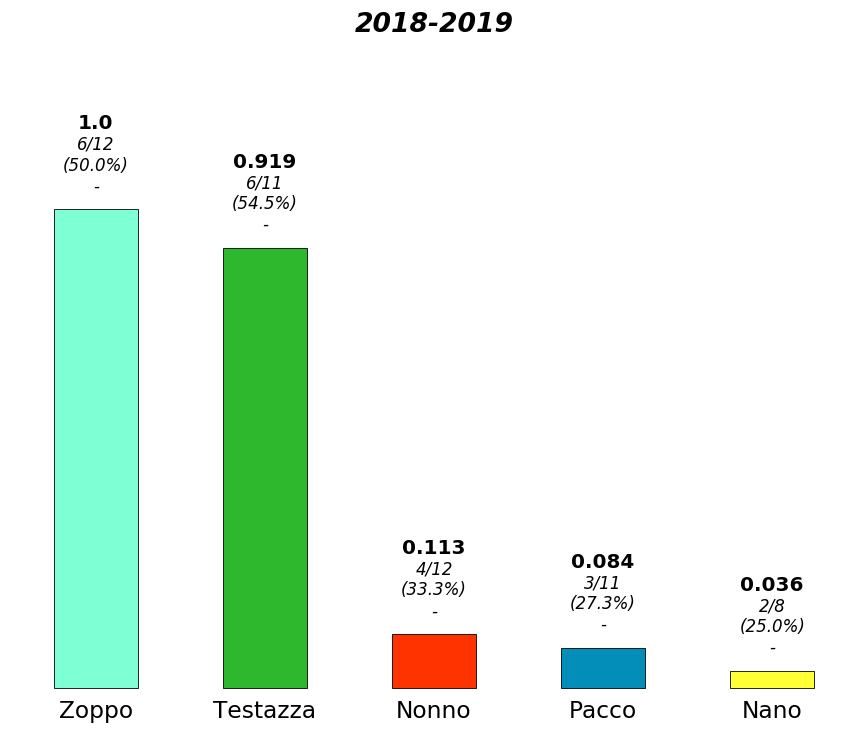
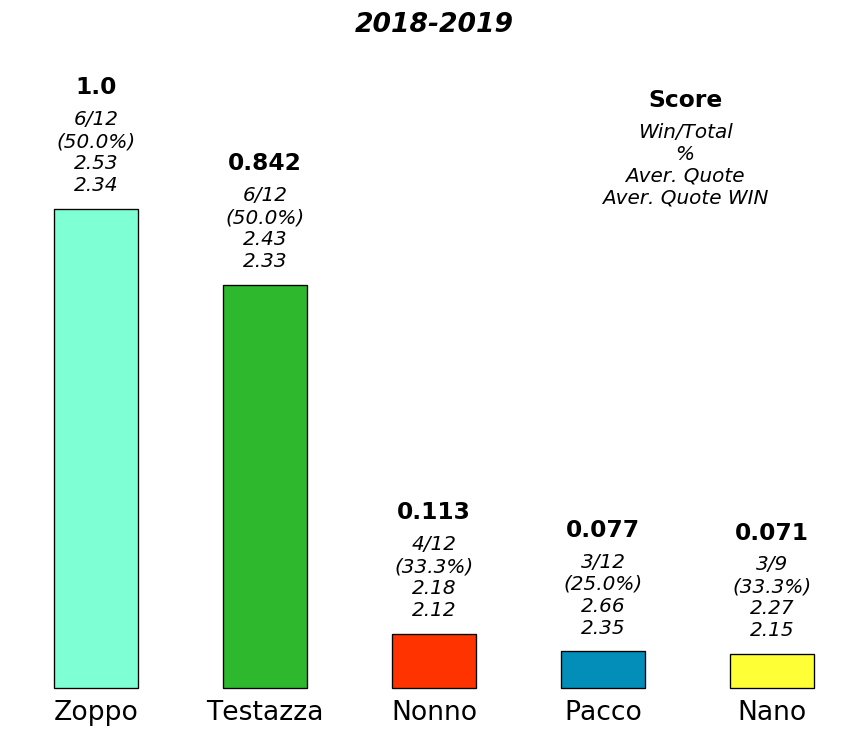
score restyling

diff --git a/Classes.py b/Classes.py
@@ -280,17 +280,20 @@ def score2(which):
 	                         (preds2['Label'] == 'WINNING')]) /
 	              len(preds2[preds2['User'] == name]) * 100, 1) for name
 	        in names]
-	mean_quote = [round(preds2[(preds2['User'] == name) &
-	                     (preds2['Label'] == 'WINNING')].
-		          sort_values(by='Quote')['Quote'].values[1:-1].mean(), 2)
-	              for name in names]
+	mean_quoteW = [round(preds2[(preds2['User'] == name) &
+	                            (preds2['Label'] == 'WINNING')].
+	                sort_values(by='Quote')['Quote'].values[1:-1].mean(), 2)
+	               for name in names]
+	mean_quoteP = [round(preds2[preds2['User'] == name]['Quote'].values.mean(),
+	                     2)
+	               for name in names]
 	colors = [colors_dict[name] for name in names]
 
 	fig, ax = plt.subplots()
 	fig.set_size_inches(9, 7)
 	bars = plt.bar(range(5), indices, 0.5, color=colors, edgecolor='black',
-	               linewidth=0.5, clip_on=False)
-	plt.xticks(range(5), names, fontsize=14)
+	               linewidth=.8, clip_on=False)
+	plt.xticks(range(5), names, fontsize=16)
 	plt.ylim(0, 1.35)
 	plt.box(on=None)
 	plt.tick_params(axis='x', which='both', bottom=False, labelbottom=True)
@@ -298,18 +301,27 @@ def score2(which):
 	plt.title(which, fontsize=16, fontweight='bold', style='italic')
 
 	for i, bar in enumerate(bars):
-		text = '{}\n({}%)\n{}'.format(ratio[i], perc[i], '-')#mean_quote[i])
+		text = '{}\n({}%)\n{}\n{}'.format(ratio[i], perc[i], mean_quoteP[i],
+		                              mean_quoteW[i])
 		plt.text(bar.get_x() + bar.get_width() / 2.0, indices[i] + 0.03,
-		         '{}'.format(text), ha='center', va='bottom', fontsize=10,
+		         '{}'.format(text), ha='center', va='bottom', fontsize=12,
 		         style='italic')
 	for i, bar in enumerate(bars):
 		text = '{}'.format(indices[i])
-		plt.text(bar.get_x() + bar.get_width() / 2.0, indices[i] + 0.16,
-		         '{}'.format(text), ha='center', va='bottom', fontsize=12,
+		plt.text(bar.get_x() + bar.get_width() / 2.0, indices[i] + 0.23,
+		         '{}'.format(text), ha='center', va='bottom', fontsize=14,
 		         fontweight='bold')
 	for bar in bars:
 		if not bar.get_height():
 			bar.set_linewidth(0)
+
+	plt.text(.8, .9, 'Score', horizontalalignment='center',
+	         transform=ax.transAxes, fontweight='bold', fontsize=14)
+
+	expl = 'Win/Total\n%\nAver. Quote\nAver. Quote WIN'
+
+	plt.text(.8, .75, expl, horizontalalignment='center',
+	         transform=ax.transAxes, style='italic', fontsize=12)
 
 	plt.savefig('score_{}.png'.format(which), dpi=120, bbox_inches='tight')
 	plt.gcf().clear()
